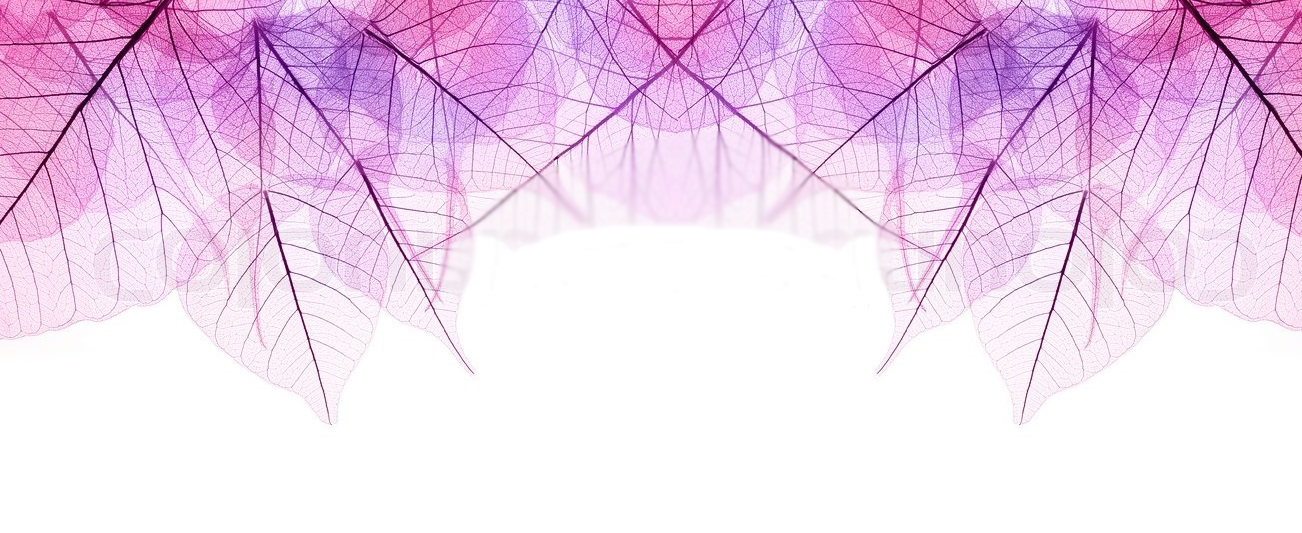
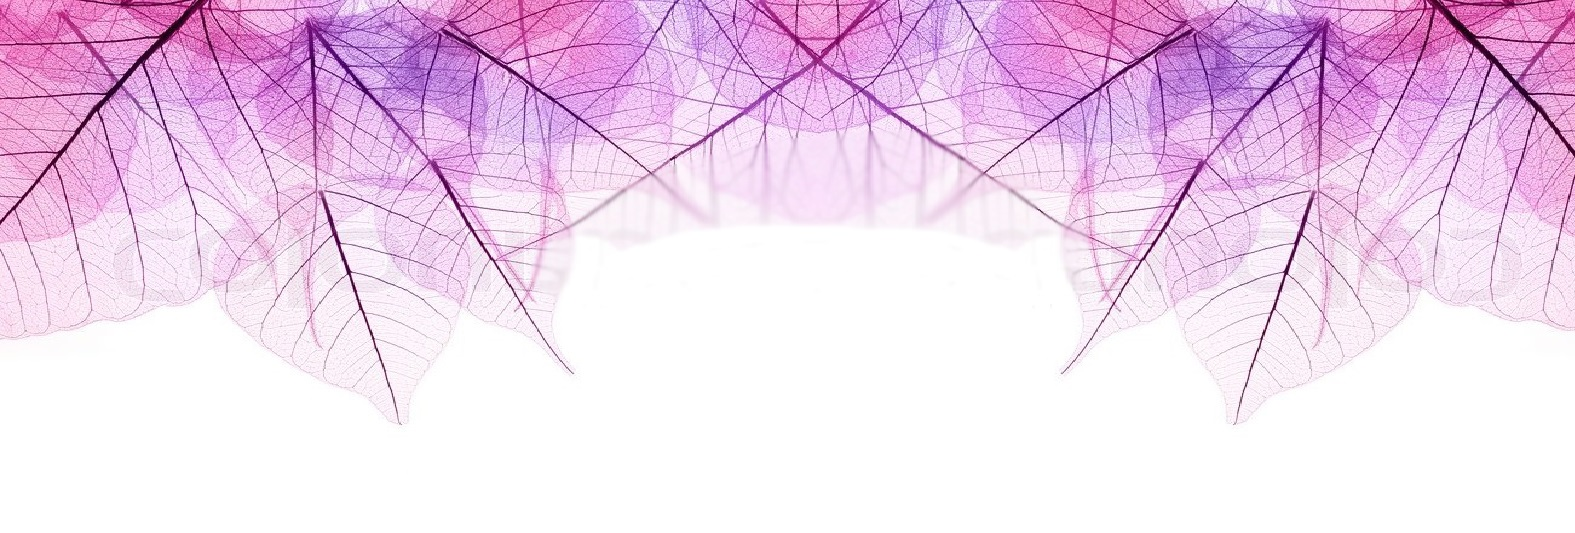
css and js working

diff --git a/public/css/style.css b/public/css/style.css
@@ -13,7 +13,7 @@
 body {
 	background-image: url("../img/background.jpg");
 	background-repeat: no-repeat;
-	background-repeat: repeat-x;
+	background-size: 100%;
 	margin-bottom: -180px;
 	padding: 1em;
 }

diff --git a/resources/views/layout2.blade.php b/resources/views/layout2.blade.php
@@ -10,16 +10,15 @@
     <!-- Compiled and minified CSS -->
     <link rel="stylesheet" href="https://cdnjs.cloudflare.com/ajax/libs/materialize/0.97.7/css/materialize.min.css">
 
-    <!--Import materialize.css-->
-    <link type="text/css" rel="stylesheet" href="app/css/materialize.min.css"  media="screen,projection"/>
-
-    <!--CSS-->
-    <link type="text/css" rel="stylesheet" href="app/css/ticketingstyle.css">
-
     <!--Let browser know website is optimized for mobile-->
     <meta name="viewport" content="width=device-width, initial-scale=1.0"/>
 
-    <script type="text/javascript" src="https://code.jquery.com/jquery-2.1.1.min.js"></script>
+    <script src="https://ajax.googleapis.com/ajax/libs/jquery/3.1.1/jquery.min.js"></script>
+
+    <!-- <script type="text/javascript" src="http://ajax.googleapis.com/ajax/libs/jquery/1.4.2/jquery.min.js"></script>  -->
+
+    <!--CSS-->
+    <link href="{{{ asset('/css/style.css') }}}" rel="stylesheet">
 
     <!--Custom Font for Logo-->
     <link href="https://fonts.googleapis.com/css?family=Fredoka+One" rel="stylesheet">
@@ -31,33 +30,80 @@
 
 <body>
 
-<div class="row">
-  <div class="col s2">Tickets</div>
-  <div class="col s2">Knowledge Base</div>
+<nav class="purple" role="navigation">
+  <div class="nav-wrapper container s12 light"><a id="logo-container" href="index.php" class="brand-logo"><img src="img/totally.png" width="80" height="80"><span class="helpdesk" style="vertical-align: top">Helpdesk</span></a> 
+    <ul class="right hide-on-med-and-down" id="login">
+      <li><a href="login" id="mysignin">Logout</a></li>
+    </ul>
+
+    <ul class="right hide-on-med-and-down">
+      <li><a href="knowledgebase">Knowledge Base</a></li>
+    </ul>
+    <ul class="right hide-on-med-and-down">
+      <li><a href="ticketing">Tickets</a></li>
+    </ul>
+  </div>
+</nav>
+
+
+
+<div aside class="chatting">
+  <h4>Chat Area</h4>
+  <form name="form1">
+  Enter Your Chatname: <input type="text" name="uname" style="width: 200px";>
+  <br>
+  Your Message: <br>
+  <textarea name="msg" style="width: 350px; height: 70px"></textarea> 
+  <br>
+  <a href="#" onclick="submitChat()">Send</a><br><br>
+  </form>
 </div>
 
-<div class="row">
-  <div class="col s12 m8 l9">
+  <div id="chatlogs">
+    Loading Chatlogs, Please Wait...
+  </div>
+
+</div>
+
+<script type="text/javascript">
+function submitChat() {
+  if(form1.uname.value == '' || form1.msg.value == '') {
+    alert('ALL FIELDS ARE MANDATORY');
+  }
+
+  form1.uname.readOnly = true;
+  form1.uname.style.border = 'none';
+  var uname = form1.uname.value;
+  var msg = form1.msg.value;
+  var xmlhttp = new XMLHttpRequest();
+
+  xmlhttp.onreadystatechange = function() {
+    if (xmlhttp.readyState==4&&xmlhttp.status==200){
+      document.getElementById('chatlogs').innerHTML = xmlhttp.responseText; 
+    }
+  }
+  xmlhttp.open('GET', '{{{ asset("/ajax/chat.php?uname=") }}}' + uname + '&msg=' + msg, true);
+  xmlhttp.send();
+}
+
+$(document).ready(function(e) {
+  $.ajaxSetup({cache:false});
+  //setInterval(function() { $(#chatlogs).load('logs.blade.php');}, 2000);
+});
+</script>
+
+</div>
+</div>
+
+
+
+<div class="tables row">
+  <div class="col l9">
     @yield('content')
   </div>
-
-  <div class="col s12 m4 l3">
-    <div id="page-wrap">
-
-    <h2>Helpdesk Chat</h2>
-    
-    <p id="name-area"></p>
-    
-    <div id="chat-wrap"><div id="chat-area"></div></div>
-    
-    <form id="send-message-area">
-        <p>Your message: </p>
-        <textarea id="sendie" maxlength = '100'></textarea>
-    </form>
-
 </div>
-  </div>
-</div>
+
+
 
 </body>
 </html>

diff --git a/resources/views/layout.blade.php b/resources/views/layout.blade.php
@@ -6,20 +6,20 @@
     <meta http-equiv="X-UA-Compatible" content="IE=edge">
     <meta name="viewport" content="width=device-width, initial-scale=1">
     
+    <!--CSS-->
+    <link type="text/css" rel="stylesheet" href="public/css/style.css">
+
     <!--Materialize-->
     <!-- Compiled and minified CSS -->
     <link rel="stylesheet" href="https://cdnjs.cloudflare.com/ajax/libs/materialize/0.97.7/css/materialize.min.css">
-
-    <!--Import materialize.css-->
-    <link type="text/css" rel="stylesheet" href="app/css/materialize.min.css"  media="screen,projection"/>
-
-    <!--CSS-->
-    <link type="text/css" rel="stylesheet" href="../../public/css/style.css">
 
     <!--Let browser know website is optimized for mobile-->
     <meta name="viewport" content="width=device-width, initial-scale=1.0"/>
 
     <script type="text/javascript" src="https://code.jquery.com/jquery-2.1.1.min.js"></script>
+
+    <!--CSS-->
+    <link href="{{{ asset('/css/style.css') }}}" rel="stylesheet">
 
     <!--Custom Font for Logo-->
     <link href="https://fonts.googleapis.com/css?family=Fredoka+One" rel="stylesheet">
@@ -59,12 +59,12 @@
       @yield('content')
   </div>
 
-  <footer class="page-footer purple">
+  <footer class="purple" role="page-footer">
     <div class="container">
       <div class="row">
         <div class="col l9 s12">
           <h5 class="white-text">Company Bio</h5>
-          <p class="grey-text text-lighten-4">My name is Tiffany Haag, and I am completing the Full Stack Developer certificate program through University of Central Florida.  This is my final project made with HTML, CSS, JavaScript, PHP, Laravel, and MySQL.</p>
+          <p class="white-text">My name is Tiffany Haag, and I am completing the Full Stack Developer certificate program through University of Central Florida.  This is my final project made with HTML, CSS, JavaScript, PHP, Laravel, and MySQL.</p>
 
         </div>
         <div class="col l3 s12">

diff --git a/resources/views/index.blade.php b/resources/views/index.blade.php
@@ -5,7 +5,7 @@
 <div class="section no-pad-bot" id="index-banner">
   <div class="container">
     <br><br>
-    <h1 class="header center purple-text">Helpdesk Tools in One Spot</h1>
+    <h1 class="header center purple-text">Helpdesk Tools in One App!</h1>
     <div class="row center">
       <h4 class="col s12 light" id="desc">Asset management tracking, helpdesk ticketing system, purchase approvals, and chat window all in one easy to use application.</h4>
     </div>
@@ -32,7 +32,7 @@
       <div class="col s12 m4">
         <div class="icon-block">
           <div class="center image"><img src="img/support.png"></div>
-          <h5 class="center subheader">Helpdesk Ticketing System</h5>
+          <h5 class="center subheader">Helpdesk Ticketing</h5>
 
           <p class="point" style="text-align: justify;">Users can enter tickets, check status, and keep open communitcation with the IT Department.  Your helpdesk can enter, update and complete tickets, while creating a knowledge base with every completed ticket. </p>
         </div>

diff --git a/public/ajax/chat.php b/public/ajax/chat.php
@@ -1,0 +1,18 @@
+<?php
+
+$uname = $_REQUEST['uname'];
+$msg = $_REQUEST['msg'];
+
+class chatController extends Controller
+{
+	public function index() {
+		$chatbox = DB::select('select * from chatbox where username="$uname"');
+			return view('uname.layout2' . ['uname' => $uname]) . ('msg.layout2' . ['msg' => $msg]) ;
+	}
+}
+
+// $result1 = mysql_query("SELECT * FROM logs ORDER by id DESC");
+
+// while ($extract = mysql_fetch_array($result1)) {
+// 	echo "<span class='name'>" . $extract['username'] . "</span>: <span class='msg'>" . $extract['msg'] . "</span><br>";
+// }

diff --git a/resources/views/logs.blade.php b/resources/views/logs.blade.php
@@ -1,0 +1,12 @@
+<!--logs.php-->
+
+<?php
+
+$con = mysql_connect('localhost', 'root', 'root');
+mysql_select_db('chatbox', $con);
+
+$result1 = mysql_query("SELECT * FROM logs ORDER by id DESC");
+
+while ($extract = mysql_fetch_array($result1)) {
+	echo "<span class='uname'>" . $extract['username'] . "</span>: <span class='msg'>" . $extract['msg'] . "</span><br>";
+};

diff --git a/resources/views/login.blade.php b/resources/views/login.blade.php
@@ -3,7 +3,7 @@
 
 @section('content')
   <div class="center">
-    <h1>Login</h1>
+    <h1 class="header center purple-text">Login</h1>
 
     <img src="img/login.png" width="300px" height="300px">
     <form method="post" action="validatelogin">

diff --git a/resources/views/ticketing.blade.php b/resources/views/ticketing.blade.php
@@ -2,7 +2,7 @@
 
 @section('content')
 
-  <h1>Ticketing Area</h1>
+  <h4>Ticketing Area</h4>
 
   <div class="striped responsive-table" 
   <table>
